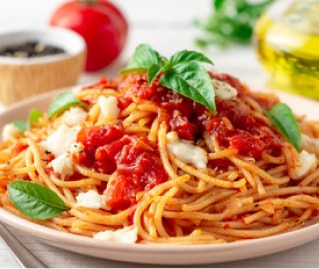
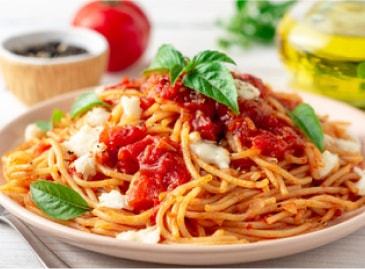
recipes block prepared

diff --git a/app/components/capital/recipes/recipes__item.scss b/app/components/capital/recipes/recipes__item.scss
@@ -1,3 +1,9 @@
 .#{$this}__item {
   @include padding-ver($_gutter-ver);
+
+  @include media-breakpoint-from(xl) {
+    @include padding-ver(0);
+    @include padding-hor($_gutter-hor);
+    width: calc(100% / 3);
+  }
 }

diff --git a/app/components/capital/recipes/recipes__list.scss b/app/components/capital/recipes/recipes__list.scss
@@ -1,3 +1,9 @@
 .#{$this}__list {
   @include margin-ver(-$_gutter-ver);
+
+  @include media-breakpoint-from(xl) {
+    @include margin-ver(0);
+    @include margin-hor(-$_gutter-hor);
+    display: flex;
+  }
 }

diff --git a/app/components/capital/recipe-preview/recipe-preview__image.scss b/app/components/capital/recipe-preview/recipe-preview__image.scss
@@ -1,5 +1,7 @@
 .#{$this}__image {
   @include size(100%);
+  object-fit: cover;
+  object-position: 50% 50%;
   transition: transform 0.3s;
 
   .#{$this}__link:hover & {

diff --git a/app/components/capital/recipe-preview/recipe-preview__picture.scss b/app/components/capital/recipe-preview/recipe-preview__picture.scss
@@ -1,5 +1,5 @@
 .#{$this}__picture {
-  @include size(319px, 269px);
+  @include size(320px, 269px);
   @include margin-hor(auto);
   overflow: hidden;
 }

diff --git a/app/components/capital/recipes/_dt_recipes.scss b/app/components/capital/recipes/_dt_recipes.scss
@@ -1,3 +1,4 @@
 $this: "recipes";
 
 $_gutter-ver: 10px;
+$_gutter-hor: 17px;
